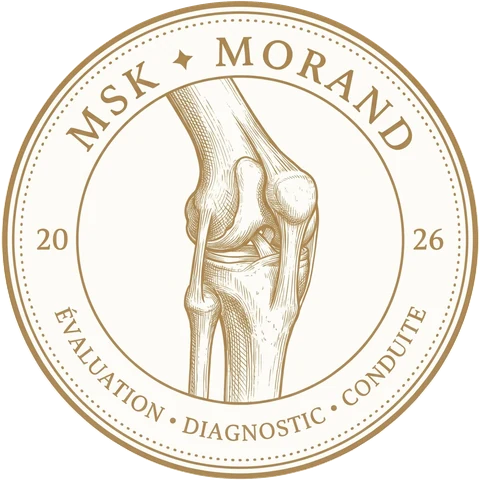
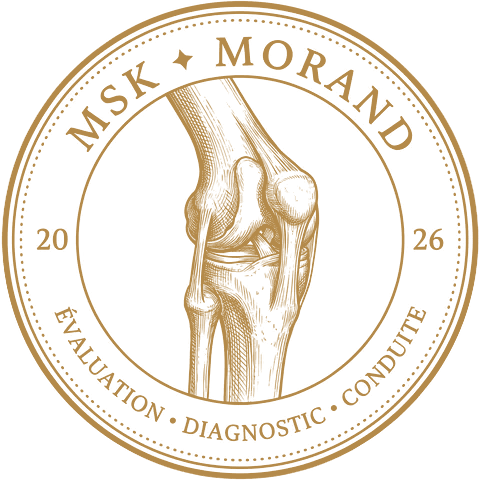
MSK Morand : sceau sur fond transparent, comme les autres sceaux
En mode sombre, le sceau MSK gardait un disque crème. Le fond intérieur devient
transparent et le dessin prend le doré des autres sceaux (#b48a4a), avec une
opacité qui suit l'intensité du trait : le sceau s'accorde aux cinq autres
en mode clair comme en mode sombre. L'original est gardé
(outils/locomoteur/sceau-msk-original.webp) avec le script de conversion.

Claude-Session: https://claude.ai/code/session_015CvDfFFVvcyeny9htAzQCo

diff --git a/outils/locomoteur/sceau-transparent.py b/outils/locomoteur/sceau-transparent.py
@@ -1,0 +1,25 @@
+# Sceau MSK : le fond crème intérieur devient transparent ; le dessin garde sa teinte dorée, avec une opacité
+# proportionnelle à son écart avec le crème (comme les autres sceaux, dorés sur fond transparent).
+import sys
+from PIL import Image
+src, dst, apercu = sys.argv[1], sys.argv[2], sys.argv[3]
+im = Image.open(src).convert("RGBA")
+w, h = im.size
+px = im.load()
+CREME = (253, 250, 242)
+OR = (180, 138, 74)          # #b48a4a, la couleur des autres sceaux
+lum = lambda c: 0.299 * c[0] + 0.587 * c[1] + 0.114 * c[2]
+Lc, Lo = lum(CREME), lum(OR)
+out = Image.new("RGBA", (w, h))
+po = out.load()
+for y in range(h):
+    for x in range(w):
+        r, g, b, a = px[x, y]
+        if a == 0: continue
+        k = max(0.0, min(1.0, (Lc - lum((r, g, b))) / (Lc - Lo)))
+        k = min(1.0, k * 1.15)
+        po[x, y] = (*OR, int(round(255 * k * a / 255)))
+out.save(dst, "WEBP", lossless=True, quality=100)
+for nom, fond in (("sombre", (18, 17, 13)), ("clair", (247, 243, 234))):
+    f = Image.new("RGBA", (w, h), (*fond, 255)); f.alpha_composite(out); f.convert("RGB").save(apercu.replace(".png", f"-{nom}.png"))
+print("ok", out.size)
